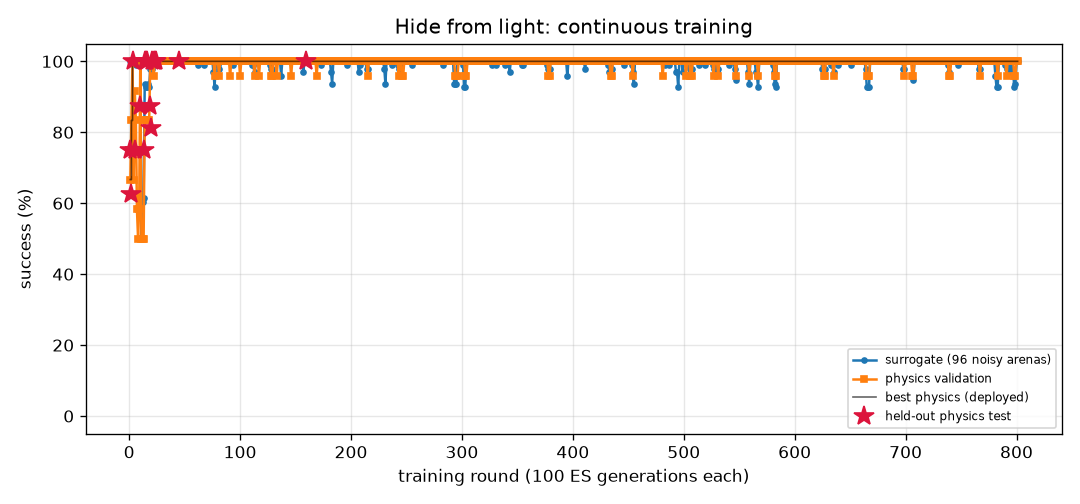
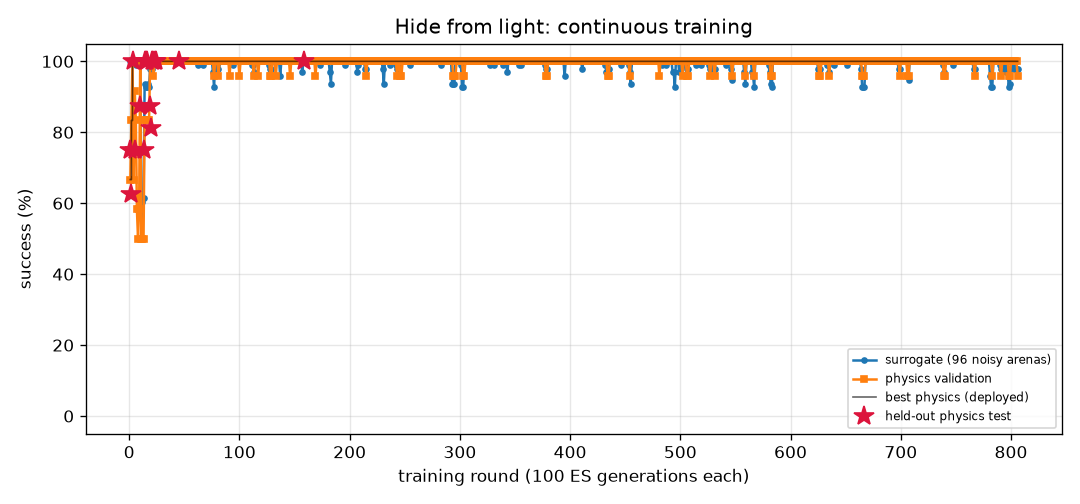
FlyLab: continuous training progress
- walk_forward: optimal, physics val 100% of 24, round 497
- turn: optimal, physics val 100% of 24, round 1288
- goto: optimal, physics val 100% of 24, round 384
- odor_seek: optimal, physics val 100% of 24, round 310
- odor_avoid: optimal, physics val 100% of 24, round 1092
- light_seek: optimal, physics val 100% of 24, round 587
- light_avoid: optimal, physics val 100% of 24, round 806

diff --git a/projects/09_flylab/training/light_avoid/REPORT.md b/projects/09_flylab/training/light_avoid/REPORT.md
@@ -1,14 +1,14 @@
 # Hide from light (`light_avoid`) — training report
 
-*Auto-generated by `train_brains.py`, last updated 2026-11-22T21:02:51.*
+*Auto-generated by `train_brains.py`, last updated 2026-11-22T21:55:18.*
 
 ![curve](curve.png)
 
 | | |
 |---|---|
-| rounds | 801 |
-| ES generations | 80100 |
-| physics runs | 19496 |
+| rounds | 806 |
+| ES generations | 80600 |
+| physics runs | 19616 |
 | status | **optimal** |
 | best brain | round 159: physics validation **100%** on 24 arenas, surrogate 100% |
 | held-out physics test | **100%** on 32 unseen arenas (95% CI 89%-100%) (errors: [14.4, 56.1, 58.0, 57.9, 57.5, 14.0, 14.4, 56.6, 56.8, 13.3, 14.1, 56.6, 57.6, 13.1, 57.3, 55.9, 57.2, 55.0, 55.2, 53.9, 55.2, 12.4, 53.8, 53.7, 14.1, 13.7, 55.0, 57.8, 56.2, 13.1, 52.8, 56.5]) |
@@ -17,11 +17,6 @@ Physics error per arena: mm gained away from source (> 6 without first approachi
 
 | round | level | gens | sigma | surrogate | physics val | val errors | test | note |
 |---:|---:|---:|---:|---:|---:|---|---:|---|
-| 762 | 3 | 76200 | 0.024 | 100% | 100% | [44.4, 43.6, 43.3, 44.2, 45.4, 44.1, 41.2, 14.5, 39.6, 13.5, 45.5, 45.6, 14.4, 45.3, 42.9, 43.6, 14.2, 45.7, 43.2, 14.4, 40.7, 46.0, 42.1, 45.5] |  |  |
-| 763 | 3 | 76300 | 0.024 | 100% | 100% | [58.8, 62.0, 61.8, 59.2, 60.4, 59.2, 60.8, 14.5, 50.8, 13.3, 59.0, 60.3, 14.4, 58.2, 61.9, 58.9, 14.2, 61.2, 62.2, 14.4, 58.1, 58.7, 60.6, 59.5] |  | restart from best |
-| 764 | 3 | 76400 | 0.024 | 100% | 100% | [50.5, 52.4, 52.4, 50.4, 49.5, 51.0, 52.0, 14.5, 48.4, 13.1, 52.4, 49.1, 14.4, 51.8, 52.4, 49.6, 14.2, 50.4, 52.3, 14.4, 51.4, 52.6, 51.7, 48.4] |  |  |
-| 765 | 3 | 76500 | 0.024 | 100% | 100% | [52.3, 56.7, 56.4, 53.6, 56.8, 53.0, 54.9, 14.5, 43.8, 13.5, 56.4, 56.7, 14.4, 54.9, 56.6, 52.0, 14.2, 57.2, 56.9, 14.4, 51.5, 56.2, 54.7, 56.2] |  |  |
-| 766 | 3 | 76600 | 0.024 | 98% | 100% | [50.4, 53.1, 53.0, 51.0, 50.9, 50.7, 52.0, 14.5, 13.0, 13.4, 10.1, 50.8, 14.4, 42.7, 52.9, 50.4, 14.2, 51.8, 53.0, 14.4, 50.2, 11.2, 51.7, 49.6] |  |  |
 | 767 | 3 | 76700 | 0.025 | 98% | 96% | [50.7, 52.8, 52.9, 51.5, 50.0, 51.3, 52.6, 14.5, 13.0, 13.4, 10.2, 49.5, 14.4, 8.0, 53.0, 50.1, 14.2, 50.8, 53.2, 14.4, 51.6, 11.3, 52.1, 48.8] |  | restart from best |
 | 768 | 3 | 76800 | 0.024 | 100% | 100% | [37.1, 38.1, 39.1, 36.7, 34.3, 37.2, 39.4, 14.5, 34.4, 13.4, 38.7, 34.2, 14.4, 38.5, 39.0, 36.7, 14.2, 35.7, 38.6, 14.4, 37.8, 39.7, 40.1, 35.4] |  |  |
 | 769 | 3 | 76900 | 0.024 | 100% | 100% | [50.1, 51.2, 51.0, 50.2, 50.8, 50.5, 49.8, 14.5, 46.2, 13.4, 50.0, 50.5, 14.4, 50.7, 51.1, 49.9, 14.2, 51.1, 51.6, 14.4, 48.5, 50.4, 49.5, 50.1] |  |  |
@@ -57,3 +52,8 @@ Physics error per arena: mm gained away from source (> 6 without first approachi
 | 799 | 3 | 79900 | 0.028 | 94% | 96% | [6.1, 41.0, 41.1, 7.3, 36.9, 4.6, 41.8, 14.5, 33.0, 13.5, 34.6, 35.9, 14.4, 36.2, 41.4, 9.0, 14.2, 37.7, 41.6, 14.4, 8.7, 36.0, 41.7, 35.4] |  | restart from best |
 | 800 | 3 | 80000 | 0.024 | 100% | 100% | [53.3, 57.2, 56.8, 55.4, 56.9, 53.3, 55.6, 14.5, 40.0, 13.5, 55.2, 56.7, 14.3, 56.4, 57.1, 52.9, 14.2, 57.3, 57.5, 14.4, 55.4, 55.3, 55.6, 56.1] |  |  |
 | 801 | 3 | 80100 | 0.024 | 100% | 100% | [53.7, 58.7, 58.3, 54.7, 58.7, 54.9, 56.9, 14.5, 50.7, 13.5, 57.9, 58.5, 14.4, 57.3, 58.5, 56.6, 14.2, 59.1, 58.9, 14.4, 55.4, 57.8, 56.8, 58.1] |  |  |
+| 802 | 3 | 80200 | 0.024 | 99% | 100% | [44.3, 44.9, 45.0, 44.0, 40.3, 44.5, 45.7, 14.5, 12.9, 13.4, 9.6, 39.4, 14.4, 40.7, 45.4, 43.6, 14.2, 40.9, 45.4, 14.4, 37.8, 9.5, 44.4, 39.0] |  |  |
+| 803 | 3 | 80300 | 0.025 | 98% | 100% | [33.8, 36.8, 37.1, 34.0, 32.6, 37.7, 38.1, 14.5, 13.0, 13.4, 10.2, 31.6, 14.4, 28.2, 36.1, 34.5, 14.2, 31.8, 35.4, 14.4, 31.6, 11.2, 36.9, 30.8] |  | restart from best |
+| 804 | 3 | 80400 | 0.024 | 100% | 100% | [53.4, 56.8, 56.5, 54.9, 56.5, 55.0, 55.2, 14.5, 9.8, 13.5, 55.0, 56.3, 14.4, 56.0, 56.7, 55.1, 14.2, 56.9, 57.2, 14.4, 53.4, 55.0, 55.1, 55.8] |  |  |
+| 805 | 3 | 80500 | 0.024 | 98% | 100% | [40.0, 39.7, 40.1, 39.7, 34.7, 39.5, 40.6, 14.5, 13.0, 13.4, 10.2, 34.5, 14.4, 23.9, 40.2, 39.5, 14.2, 35.8, 39.3, 14.4, 38.7, 11.2, 39.6, 33.0] |  |  |
+| 806 | 3 | 80600 | 0.025 | 98% | 96% | [45.1, 46.8, 46.7, 45.5, 44.5, 45.6, 46.1, 14.5, 13.0, 13.4, 10.2, 44.2, 14.4, 8.0, 46.9, 45.1, 14.2, 45.1, 47.3, 14.4, 44.9, 11.3, 45.5, 43.6] |  |  |

diff --git a/projects/09_flylab/training/odor_avoid/REPORT.md b/projects/09_flylab/training/odor_avoid/REPORT.md
@@ -1,14 +1,14 @@
 # Escape a bad smell (`odor_avoid`) — training report
 
-*Auto-generated by `train_brains.py`, last updated 2026-11-22T21:04:56.*
+*Auto-generated by `train_brains.py`, last updated 2026-11-22T21:39:45.*
 
 ![curve](curve.png)
 
 | | |
 |---|---|
-| rounds | 1089 |
-| ES generations | 108900 |
-| physics runs | 23442 |
+| rounds | 1092 |
+| ES generations | 109200 |
+| physics runs | 23514 |
 | status | **optimal** |
 | best brain | round 373: physics validation **100%** on 24 arenas, surrogate 97% |
 | held-out physics test | **97%** on 32 unseen arenas (95% CI 84%-99%) (errors: [62.0, 57.4, 62.6, 61.9, 59.0, 61.6, 56.5, 60.7, 31.7, 60.9, 63.1, 57.1, 61.1, 62.1, 61.5, 60.2, 62.2, 55.2, 62.1, 54.2, 61.3, 62.0, 58.0, 61.9, 59.8, 56.5, 56.3, 56.4, 56.3, 57.7, 61.9, 32.4]) |
@@ -17,9 +17,6 @@ Physics error per arena: mm gained away from source (> 6 without first approachi
 
 | round | level | gens | sigma | surrogate | physics val | val errors | test | note |
 |---:|---:|---:|---:|---:|---:|---|---:|---|
-| 1050 | 3 | 105000 | 0.026 | 96% | 96% | [63.3, 61.0, 55.9, 60.1, 61.7, 62.0, 61.1, 48.4, 61.9, 46.9, 61.5, 62.2, 51.6, 52.9, 36.5, 60.9, 62.0, 60.3, 55.2, 59.1, 61.8, 60.3, 60.0, 49.3] |  |  |
-| 1051 | 3 | 105100 | 0.026 | 99% | 100% | [60.5, 53.1, 55.6, 53.7, 61.1, 59.1, 60.4, 43.0, 60.8, 33.4, 59.2, 60.7, 53.9, 55.6, 42.0, 60.8, 60.7, 59.3, 54.1, 56.6, 61.0, 59.8, 57.9, 37.3] |  |  |
-| 1052 | 3 | 105200 | 0.025 | 97% | 100% | [59.4, 55.4, 55.3, 56.1, 60.3, 60.0, 60.0, 7.7, 57.9, 28.7, 58.2, 60.2, 52.3, 55.5, 49.5, 60.3, 60.1, 59.9, 52.7, 54.7, 60.1, 42.3, 55.6, 27.6] |  |  |
 | 1053 | 3 | 105300 | 0.026 | 95% | 96% | [60.3, 56.0, 56.7, 60.2, 61.2, 59.0, 61.2, 27.6, 61.2, 34.0, 60.2, 60.2, 51.6, 57.2, 34.2, 60.4, 60.8, 58.3, 53.8, 56.6, 61.2, 45.4, 60.2, 37.4] |  | restart from best |
 | 1054 | 3 | 105400 | 0.026 | 98% | 100% | [63.1, 61.2, 56.4, 58.9, 61.4, 62.6, 62.1, 49.2, 61.0, 62.0, 61.7, 61.8, 55.1, 56.5, 48.0, 61.5, 62.1, 62.1, 54.9, 57.8, 62.1, 59.9, 55.9, 56.7] |  |  |
 | 1055 | 3 | 105500 | 0.025 | 96% | 96% | [62.8, 61.0, 56.4, 57.1, 61.3, 62.0, 61.1, 47.5, 61.8, 39.9, 61.0, 61.9, 55.1, 56.3, 46.9, 61.3, 62.0, 62.1, 55.0, 59.3, 61.9, 58.0, 59.6, 49.3] |  |  |
@@ -57,3 +54,6 @@ Physics error per arena: mm gained away from source (> 6 without first approachi
 | 1087 | 3 | 108700 | 0.028 | 97% | 100% | [63.0, 57.1, 56.7, 57.6, 62.6, 61.5, 61.9, 39.4, 60.3, 60.4, 62.4, 61.9, 54.1, 56.7, 52.2, 62.5, 62.5, 61.0, 55.3, 55.5, 62.4, 61.6, 57.6, 58.5] |  |  |
 | 1088 | 3 | 108800 | 0.026 | 97% | 96% | [63.2, 61.2, 56.7, 59.5, 61.3, 62.3, 61.5, 59.2, 60.4, 60.2, 61.0, 61.5, 49.8, 55.9, 44.9, 60.7, 62.3, 61.9, 55.1, 60.2, 62.4, 60.1, 59.1, 61.7] |  |  |
 | 1089 | 3 | 108900 | 0.026 | 97% | 96% | [60.5, 57.1, 56.1, 57.3, 60.5, 61.3, 60.4, 41.1, 60.0, 59.4, 60.4, 61.1, 52.6, 56.3, 37.1, 60.1, 61.1, 61.2, 53.4, 56.7, 61.0, 45.5, 57.9, 58.8] |  | restart from best |
+| 1090 | 3 | 109000 | 0.026 | 94% | 96% | [63.4, 61.4, 57.8, 59.0, 60.8, 61.5, 61.9, 62.8, 60.3, 59.6, 55.5, 60.8, 52.1, 55.1, 33.2, 62.2, 61.4, 61.2, 52.3, 60.9, 61.4, 62.0, 58.9, 62.8] |  |  |
+| 1091 | 3 | 109100 | 0.028 | 94% | 96% | [62.9, 60.5, 54.7, 60.9, 60.0, 61.7, 61.0, 62.0, 60.4, 61.9, 56.2, 59.6, 53.2, 54.1, 36.5, 60.1, 59.2, 58.6, 51.3, 60.5, 59.2, 62.4, 61.0, 62.8] |  |  |
+| 1092 | 3 | 109200 | 0.028 | 97% | 96% | [63.8, 56.1, 58.7, 58.7, 62.2, 62.5, 61.7, 59.6, 60.6, 62.3, 61.8, 60.5, 54.6, 58.3, 46.8, 62.4, 61.1, 62.9, 55.3, 61.2, 61.0, 61.7, 59.4, 62.7] |  |  |

diff --git a/projects/09_flylab/training/light_seek/REPORT.md b/projects/09_flylab/training/light_seek/REPORT.md
@@ -1,14 +1,14 @@
 # Walk toward light (`light_seek`) — training report
 
-*Auto-generated by `train_brains.py`, last updated 2026-11-22T18:43:21.*
+*Auto-generated by `train_brains.py`, last updated 2026-11-22T21:55:05.*
 
 ![curve](curve.png)
 
 | | |
 |---|---|
-| rounds | 586 |
-| ES generations | 58600 |
-| physics runs | 10944 |
+| rounds | 587 |
+| ES generations | 58700 |
+| physics runs | 10968 |
 | status | **optimal** |
 | best brain | round 375: physics validation **100%** on 24 arenas, surrogate 100% |
 | held-out physics test | **100%** on 32 unseen arenas (95% CI 89%-100%) (errors: [0.57, 0.54, 0.53, 0.57, 0.55, 0.56, 0.59, 0.56, 0.53, 0.56, 0.71, 0.56, 0.55, 0.54, 0.53, 0.54, 0.54, 0.55, 0.52, 0.65, 0.64, 0.7, 0.58, 0.57, 0.6, 0.62, 0.55, 0.88, 0.54, 0.52, 0.62, 0.57]) |
@@ -17,7 +17,6 @@ Physics error per arena: mm from target at the end (< 1.5 and standing still = s
 
 | round | level | gens | sigma | surrogate | physics val | val errors | test | note |
 |---:|---:|---:|---:|---:|---:|---|---:|---|
-| 547 | 3 | 54700 | 0.024 | 100% | 96% | [0.61, 0.49, 0.59, 0.69, 0.64, 0.56, 0.57, 0.57, 0.6, 0.78, 0.67, 0.55, 0.59, 1.52, 0.53, 0.63, 0.52, 0.6, 0.56, 0.53, 0.59, 0.65, 0.59, 0.59] |  | restart from best |
 | 548 | 3 | 54800 | 0.024 | 100% | 100% | [0.99, 0.47, 0.53, 0.59, 0.46, 0.49, 0.44, 0.46, 0.48, 0.49, 0.55, 0.56, 0.44, 0.56, 0.53, 0.55, 0.46, 0.96, 0.53, 0.58, 0.44, 0.45, 0.55, 0.57] |  |  |
 | 549 | 3 | 54900 | 0.024 | 100% | 100% | [0.51, 0.53, 0.54, 0.46, 0.55, 0.47, 0.48, 0.99, 0.47, 0.46, 0.49, 0.46, 0.5, 0.5, 0.53, 0.45, 0.48, 0.56, 0.48, 0.47, 0.55, 0.64, 0.57, 0.93] |  |  |
 | 550 | 3 | 55000 | 0.024 | 100% | 100% | [0.44, 0.5, 0.55, 0.59, 0.65, 0.48, 0.56, 0.51, 0.58, 0.52, 0.56, 0.56, 0.6, 1.08, 0.72, 0.44, 0.49, 0.53, 0.49, 0.67, 0.52, 0.71, 1.27, 0.65] |  |  |
@@ -57,3 +56,4 @@ Physics error per arena: mm from target at the end (< 1.5 and standing still = s
 | 584 | 3 | 58400 | 0.024 | 100% | 92% | [0.6, 0.59, 0.57, 0.57, 0.63, 0.65, 0.6, 0.61, 1.95, 0.59, 0.6, 0.53, 0.6, 0.66, 0.61, 0.64, 0.67, 0.59, 0.58, 0.58, 1.16, 1.81, 0.51, 0.74] |  |  |
 | 585 | 3 | 58500 | 0.024 | 100% | 100% | [0.68, 0.63, 1.01, 0.59, 0.66, 0.63, 0.63, 0.6, 0.74, 0.68, 0.7, 0.6, 0.6, 1.44, 0.56, 0.6, 0.6, 0.69, 0.67, 0.62, 0.71, 0.61, 0.58, 0.66] |  |  |
 | 586 | 3 | 58600 | 0.024 | 100% | 100% | [0.57, 0.61, 0.57, 0.67, 0.65, 0.74, 0.75, 0.64, 0.58, 0.57, 0.63, 0.6, 0.64, 0.69, 0.72, 1.04, 0.67, 0.76, 0.85, 0.63, 0.8, 0.6, 0.54, 0.62] |  |  |
+| 587 | 3 | 58700 | 0.024 | 100% | 96% | [0.55, 0.54, 0.63, 0.73, 0.63, 2.04, 1.41, 0.63, 0.91, 0.58, 0.7, 0.54, 0.6, 0.83, 0.58, 0.6, 0.67, 0.64, 0.55, 0.62, 0.65, 0.73, 0.62, 0.66] |  | restart from best |

diff --git a/projects/09_flylab/training/TRAINING.md b/projects/09_flylab/training/TRAINING.md
@@ -1,6 +1,6 @@
 # FlyLab brains — continuous training log
 
-*Auto-generated by `train_brains.py`, last updated 2026-11-22T21:04:56.*
+*Auto-generated by `train_brains.py`, last updated 2026-11-22T21:55:18.*
 
 Every skill has its own brain and its own training process: surrogate ES rounds, physics validation in MuJoCo, keep-the-best selection, and a held-out physics test that is never used for selection. See each skill's report for its full round-by-round history. Mastery is progressive: passing a level (100% physics validation, >=95% surrogate) doubles the validation and test arena sets; a brain is **optimal** once it holds up at level 3 (>=95% of 24 validation arenas) AND scores >=90% on the 32 held-out test arenas. Test columns show 95% Wilson confidence intervals.
 
@@ -10,6 +10,6 @@ Every skill has its own brain and its own training process: surrogate ES rounds,
 | [Turn in place](turn/REPORT.md) | 1288 | 128800 | 31158 | 100% | 100% of 24 | 97% of 32 (CI 84-99%) | **optimal** |
 | [Go to a location](goto/REPORT.md) | 384 | 38400 | 9166 | 100% | 100% of 24 | 100% of 32 (CI 89-100%) | **optimal** |
 | [Find food by smell](odor_seek/REPORT.md) | 310 | 31000 | 6934 | 100% | 100% of 24 | 100% of 32 (CI 89-100%) | **optimal** |
-| [Escape a bad smell](odor_avoid/REPORT.md) | 1089 | 108900 | 23442 | 97% | 100% of 24 | 97% of 32 (CI 84-99%) | **optimal** |
-| [Walk toward light](light_seek/REPORT.md) | 586 | 58600 | 10944 | 100% | 100% of 24 | 100% of 32 (CI 89-100%) | **optimal** |
-| [Hide from light](light_avoid/REPORT.md) | 801 | 80100 | 19496 | 100% | 100% of 24 | 100% of 32 (CI 89-100%) | **optimal** |
+| [Escape a bad smell](odor_avoid/REPORT.md) | 1092 | 109200 | 23514 | 97% | 100% of 24 | 97% of 32 (CI 84-99%) | **optimal** |
+| [Walk toward light](light_seek/REPORT.md) | 587 | 58700 | 10968 | 100% | 100% of 24 | 100% of 32 (CI 89-100%) | **optimal** |
+| [Hide from light](light_avoid/REPORT.md) | 806 | 80600 | 19616 | 100% | 100% of 24 | 100% of 32 (CI 89-100%) | **optimal** |
